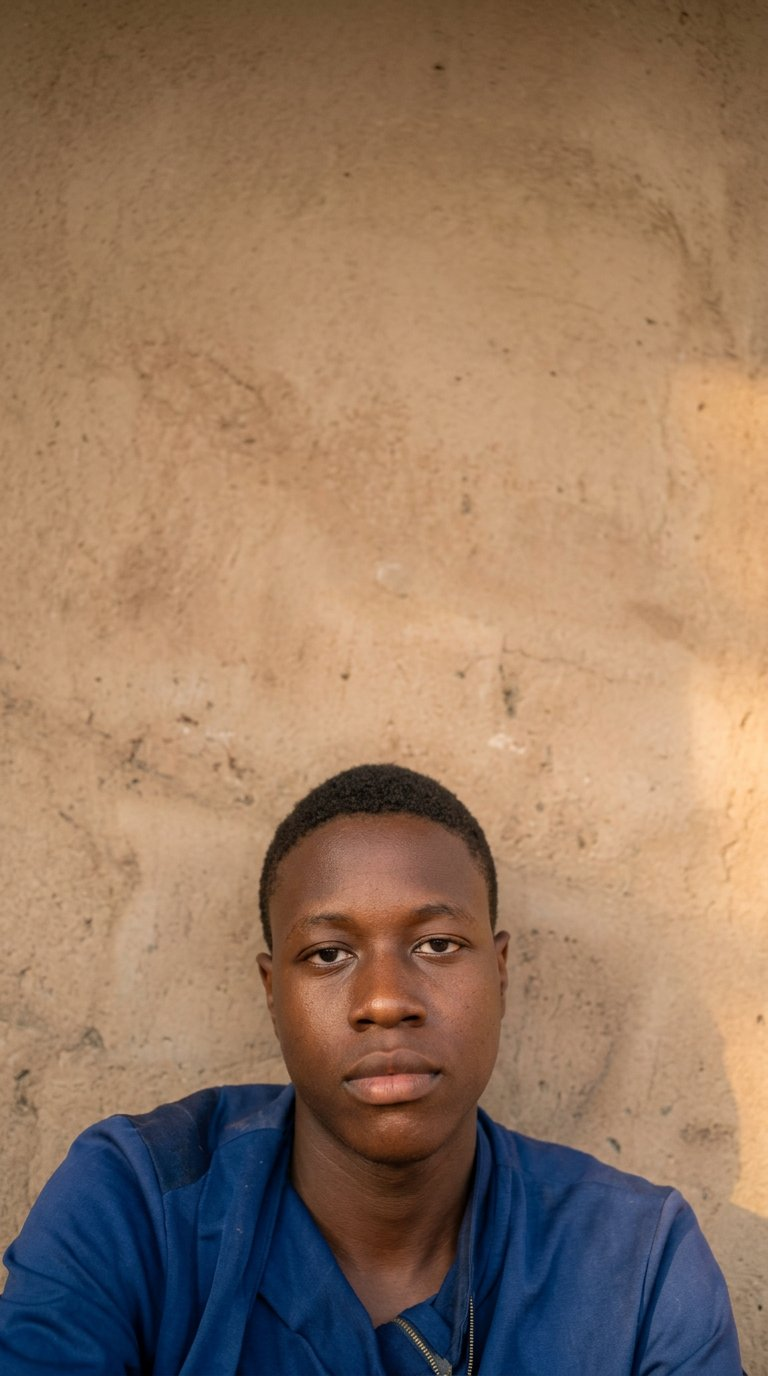
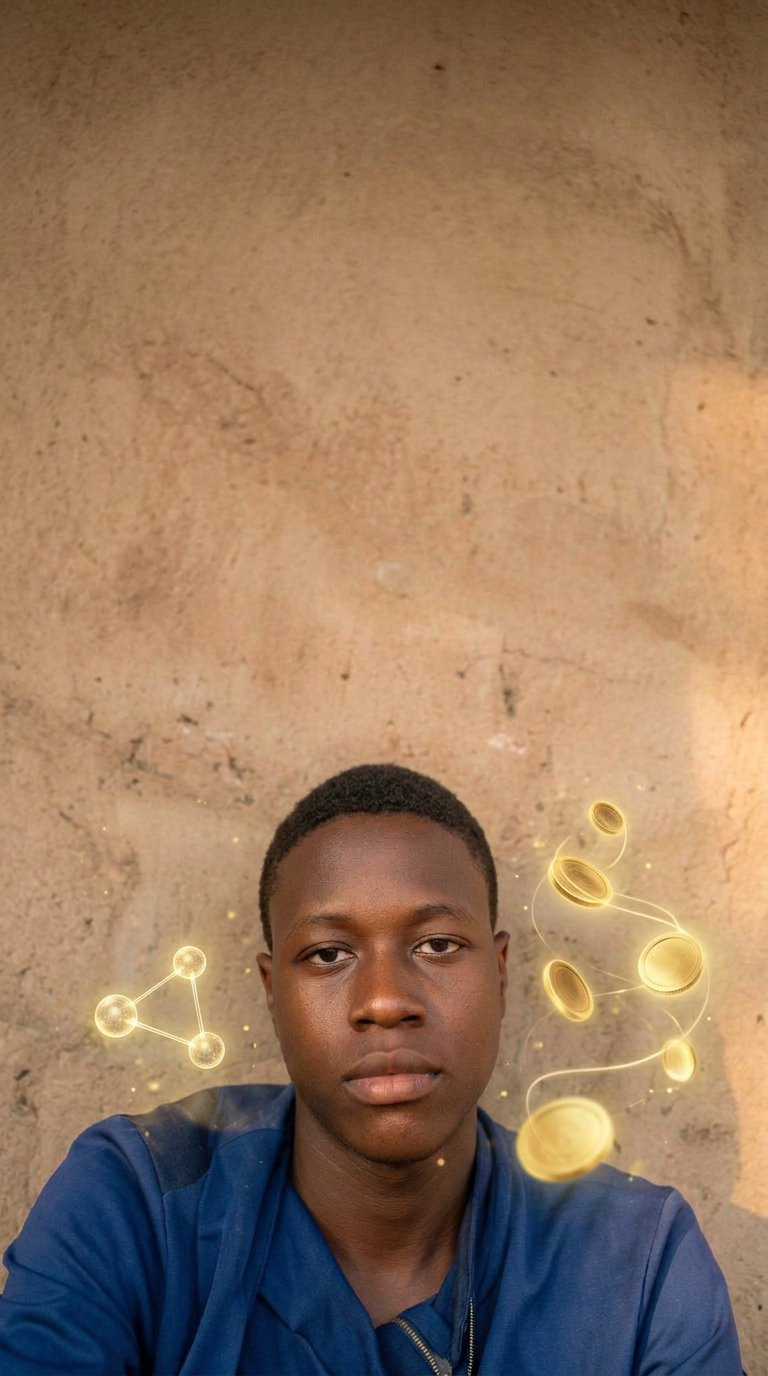
Citation 44 v2 — éléments or (pièces, icône partage) intégrés par l'IA dans la scène, zéro décalage, texte hors visage

Changed region(s): [[0.625, 0.5625, 0.9375, 0.875], [0.1562, 0.6875, 0.3438, 0.8438], [0.0938, 0.7188, 0.2188, 0.7812]]

diff --git a/dsky-quotes/quote44.py b/dsky-quotes/quote44.py
@@ -83,14 +83,6 @@ def quote44():
         draw_tracking(d, (W-m-tw_, m+14), t, fnum, pal["accent"]+(255,), tr=3,
                       shadow=(0,0,0,160))
 
-        # stickers — sur le mur, à côté de la tête, JAMAIS dans la zone de texte
-        if H > 1400:
-            sticker_coin(img,  W*0.855, H*0.520, 46, "0,00009 %")
-            sticker_share(img, W*0.135, H*0.500, 26)
-        else:
-            sticker_coin(img,  W*0.850, H*0.560, 42, "0,00009 %")
-            sticker_share(img, W*0.135, H*0.535, 24)
-
         zx0, zy0f, zy1f = zone
         f, lines, lh = fit_text(d, TXT, W*(1-2*zx0), H*(zy1f-zy0f),
                                 lambda s: playfair(s, 600), 64 if H > 1400 else 58, 34)
